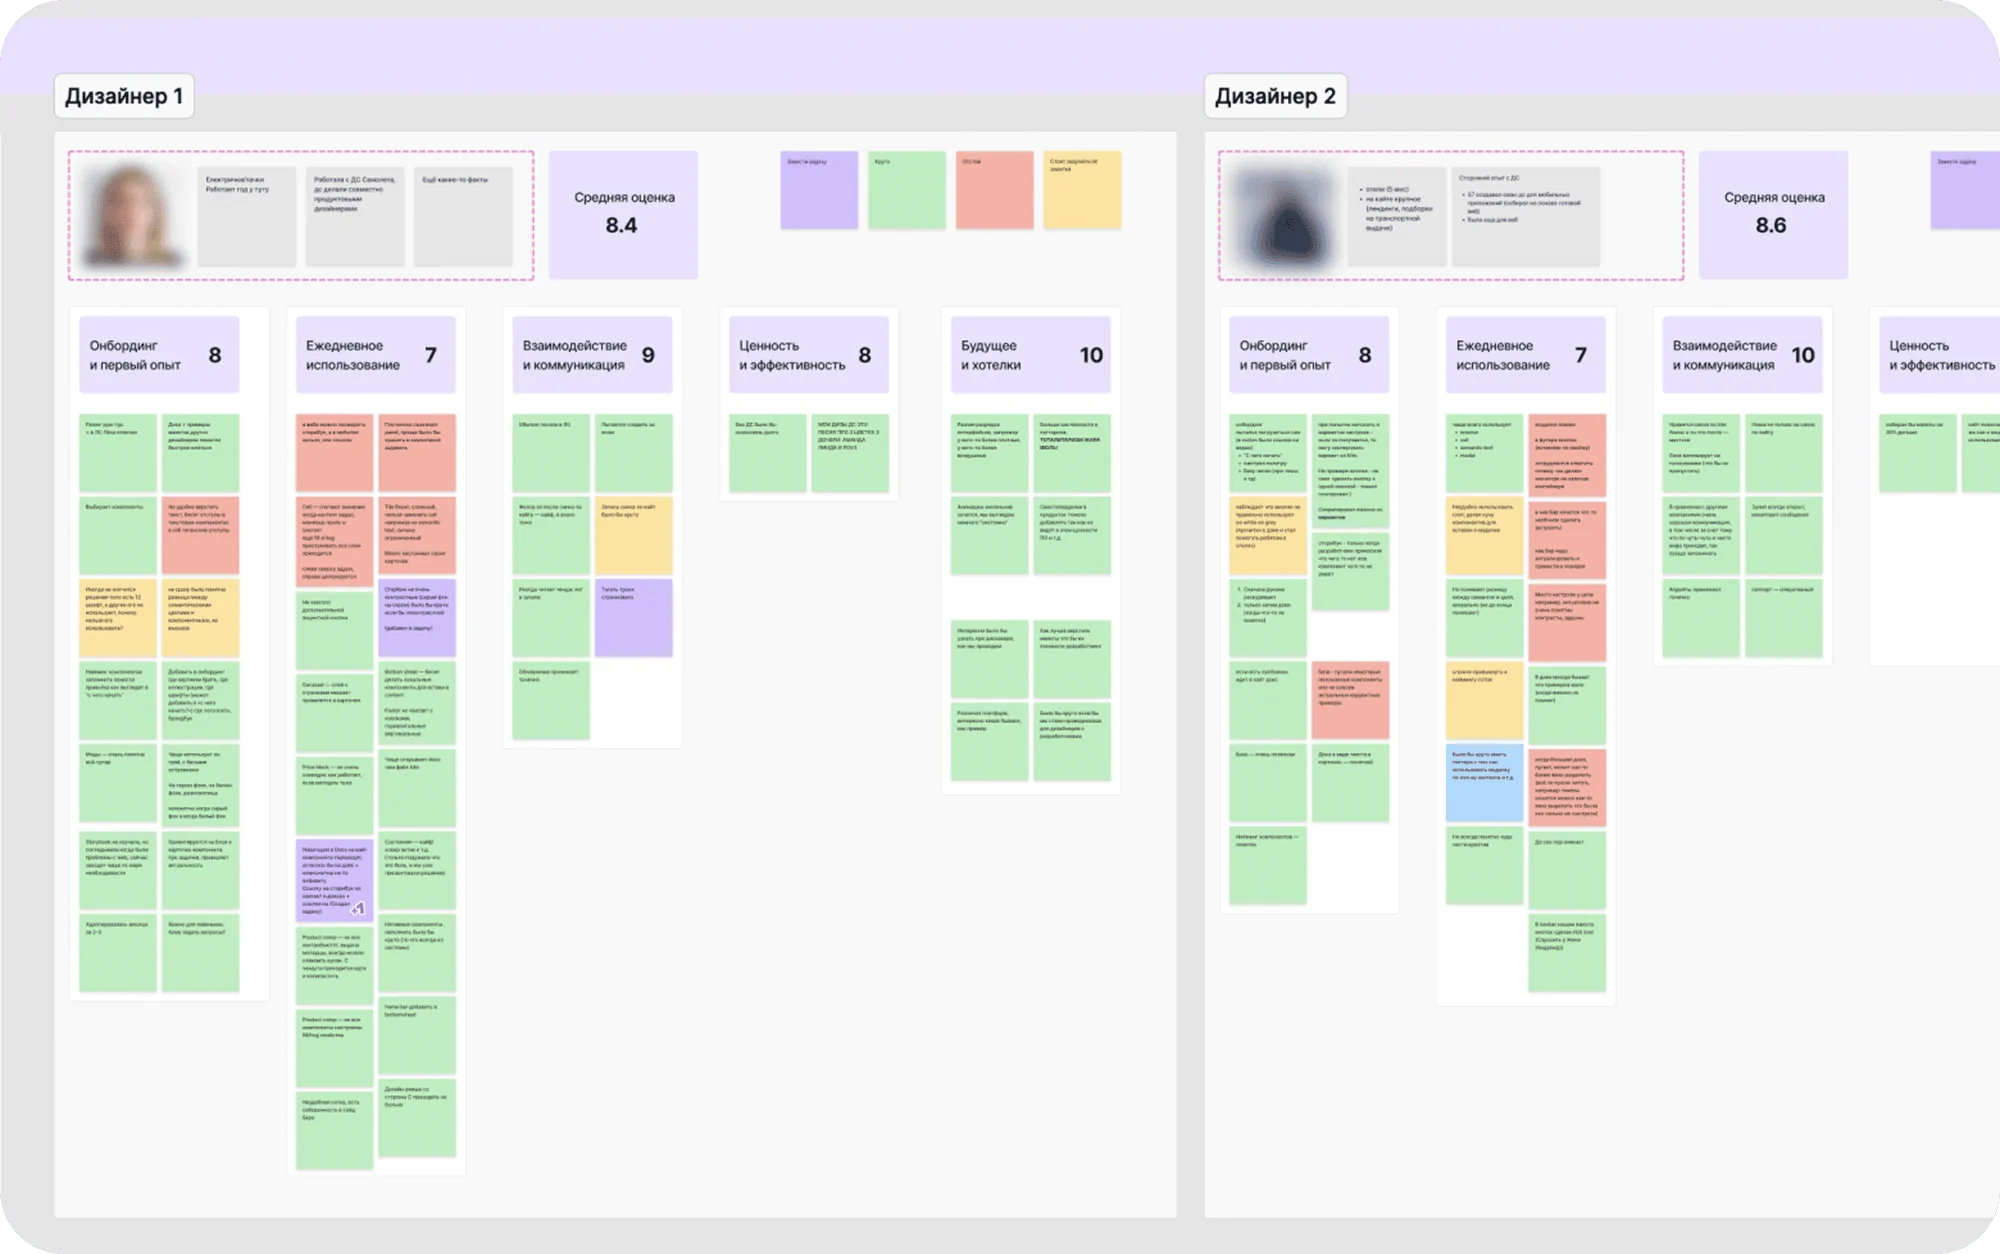
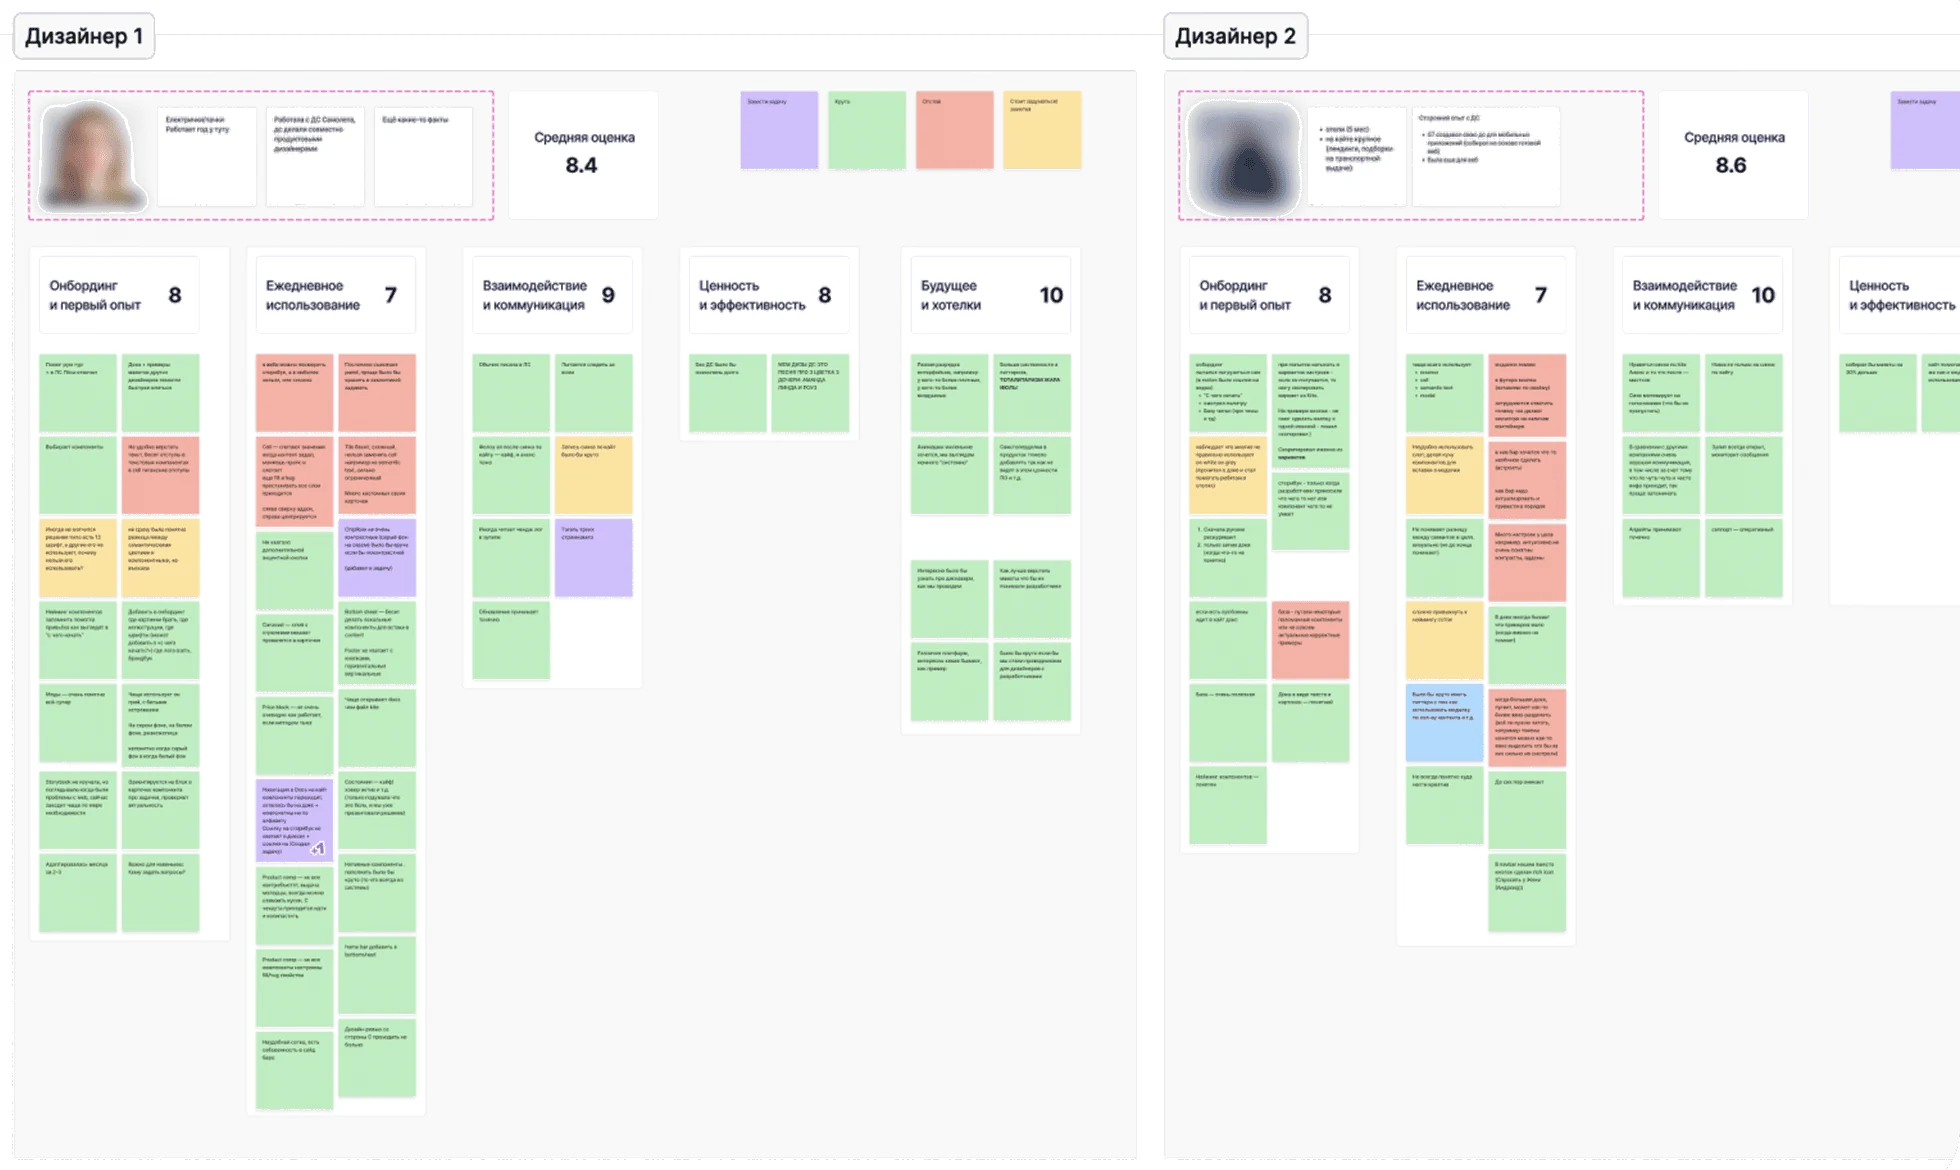
Kite DS: context in lede, sharper problem, no hypotheses, clean research board
Claude-Session: https://claude.ai/code/session_01RRbtjB1Ax1vA2u46cEyf4d

diff --git a/index.html b/index.html
@@ -365,7 +365,7 @@
     <div class="cs-head">
       <a class="back-btn" href="#work" aria-label="Back to work"><span class="a">←</span></a>
       <h1>Kite Design System: From Rigid Contracts to a Flexible Architecture</h1>
-      <p class="lede">Flights, trains, buses and stays at Tutu all run on one design system. I rebuilt Kite from the tokens up, so one set of components serves every brand, theme and state, without forks or detached copies.</p>
+      <p class="lede">Kite is Tutu’s design system. One set of tokens and components powers flights, trains, buses and stays on iOS, Android and web, as well as white-label products for partners. I rebuilt it from the tokens up, so every brand, theme and state comes from the same source.</p>
       <dl class="meta">
         <div><dt>Role</dt><dd>Senior Product Designer, Design Systems</dd></div>
         <div><dt>Company</dt><dd><span class="logo" aria-hidden="true"></span>Tutu</dd></div>
@@ -377,7 +377,7 @@
     <section class="sec">
       <h2>Problem</h2>
       <div class="body">
-        <p class="big">Kite already supported white labels, but only by swapping colors. Shapes, type and the dark theme didn’t adapt. Then the product went through a redesign, and we took a closer look at the system.</p>
+        <p class="big">Kite grew around the product rather than ahead of it. White labels were handled by swapping colors alone, while shapes, type and the dark theme stayed hardcoded. When the product started a redesign, every new screen ran into the same limits, so I began with an audit of the system itself.</p>
         <figure class="wide-fig roles-sw phone bug">
           <div class="board roles-plate"><div class="rp-media">
             <img data-modes="Theme=Light" class="on" src="assets/img/kite/bug-light.webp" alt="Flight search results in the light theme: the selected date is a dark chip">
@@ -386,12 +386,12 @@
           </div>
           <figcaption><b>Before.</b> Switch the theme and parts of the screen don’t follow: the selected date turns white on white and the rail tab fades into the background. Their colors were fixed for the light theme.</figcaption>
         </figure>
-        <p>The visible bugs were only the tip of the iceberg. Underneath, the audit found four root causes:</p>
+        <p>The visible bugs were symptoms. The audit traced them to four structural issues:</p>
         <ul class="list">
-          <li><span><b>Rigid contracts.</b> A change for one vertical broke the others, so teams detached components.</span></li>
-          <li><span><b>Missing states.</b> No hover, pressed or focus, and states that broke in the dark theme.</span></li>
-          <li><span><b>~1,700 color tokens</b> named by look, with hidden modes.</span></li>
-          <li><span><b>Two sources of truth.</b> Figma and code drifted apart.</span></li>
+          <li><span><b>Rigid component contracts.</b> Components couldn’t flex to real content, so teams detached them and lost every update.</span></li>
+          <li><span><b>Incomplete state model.</b> No hover, pressed or focus, and the existing states weren’t theme-aware.</span></li>
+          <li><span><b>Token sprawl.</b> About 1,700 color tokens, named by appearance rather than purpose, with hidden modes.</span></li>
+          <li><span><b>Design–code drift.</b> Figma and code defined values separately, so they kept diverging.</span></li>
         </ul>
         <div class="figs trio">
           <figure class="fig"><div class="board hov"><img src="assets/img/kite/button-states-before.webp" alt="Old Kite button: the State property offers only Default, Loading and Disabled" loading="lazy"></div><figcaption><b>Missing states</b>: the main button had only Default, Loading and Disabled. No hover, pressed or focus.</figcaption></figure>
@@ -405,7 +405,7 @@
       <h2>Research</h2>
       <div class="body">
         <p>I ran interviews with the designers and developers who work with Kite every day, to find out what slows them down and what they complain about.</p>
-        <figure class="wide-fig pan"><div class="shot-plate"><img src="assets/img/kite/research-board.webp" alt="Interview boards for two designers: five areas with scores and color-coded notes" loading="lazy"></div><figcaption>Each interview became a board: <b>five areas</b>, a score for each and notes sorted into what works, what hurts and what to add.</figcaption></figure>
+        <figure class="wide-fig pan"><div class="shot-plate clean"><img src="assets/img/kite/research-board.webp" alt="Interview boards for two designers: five areas with scores and color-coded notes" loading="lazy"></div><figcaption>Each interview became a board: <b>five areas</b>, a score for each and notes sorted into what works, what hurts and what to add.</figcaption></figure>
         <p>The same complaints came up again and again:</p>
         <ul class="list">
           <li><span>the library was heavy and slow to load</span></li>
@@ -414,20 +414,6 @@
           <li><span>components didn’t adapt properly to brands and the dark theme</span></li>
           <li><span>values in Figma didn’t match what developers had in code</span></li>
         </ul>
-      </div>
-    </section>
-
-    <section class="sec">
-      <h2>Hypotheses</h2>
-      <div class="body">
-        <div class="stats hyp-stats">
-          <div class="stat"><span class="n">01</span><span class="l"><b>Flexible contracts.</b> Components built from slots and properties will fit every vertical without detaching.</span></div>
-          <div class="stat"><span class="n">02</span><span class="l"><b>States from tokens.</b> If states come from semantic tokens, they will work in both themes, loading included.</span></div>
-          <div class="stat"><span class="n">03</span><span class="l"><b>A flat token model.</b> Fewer collections and no hidden modes will make the right token easy to find.</span></div>
-          <div class="stat"><span class="n">04</span><span class="l"><b>Names by meaning.</b> Naming colors by role, not by look, will turn a new brand into mapping values.</span></div>
-          <div class="stat"><span class="n">05</span><span class="l"><b>One source of truth.</b> Shared tokens for design and code will remove manual checks at handoff.</span></div>
-          <div class="stat"><span class="n">06</span><span class="l"><b>Tools over rules.</b> Figma plugins will keep teams on the system better than documentation alone.</span></div>
-        </div>
       </div>
     </section>
 

diff --git a/css/style.css b/css/style.css
@@ -1331,3 +1331,4 @@ body[data-view="work"] .impact { display: none; }
 .case:hover .kite-cover .deck1 { transform: translateY(8px); }
 .case:hover .kite-cover .deck2 { transform: translateY(16px); }
 @media (prefers-reduced-motion: reduce) { .kite-cover .kc { animation: none; transition: none; } }
+.shot-plate.clean { background: #fff; border: 1px solid #e6e6e3; padding: 0; overflow: hidden; } .shot-plate.clean img { border-radius: 0; }
